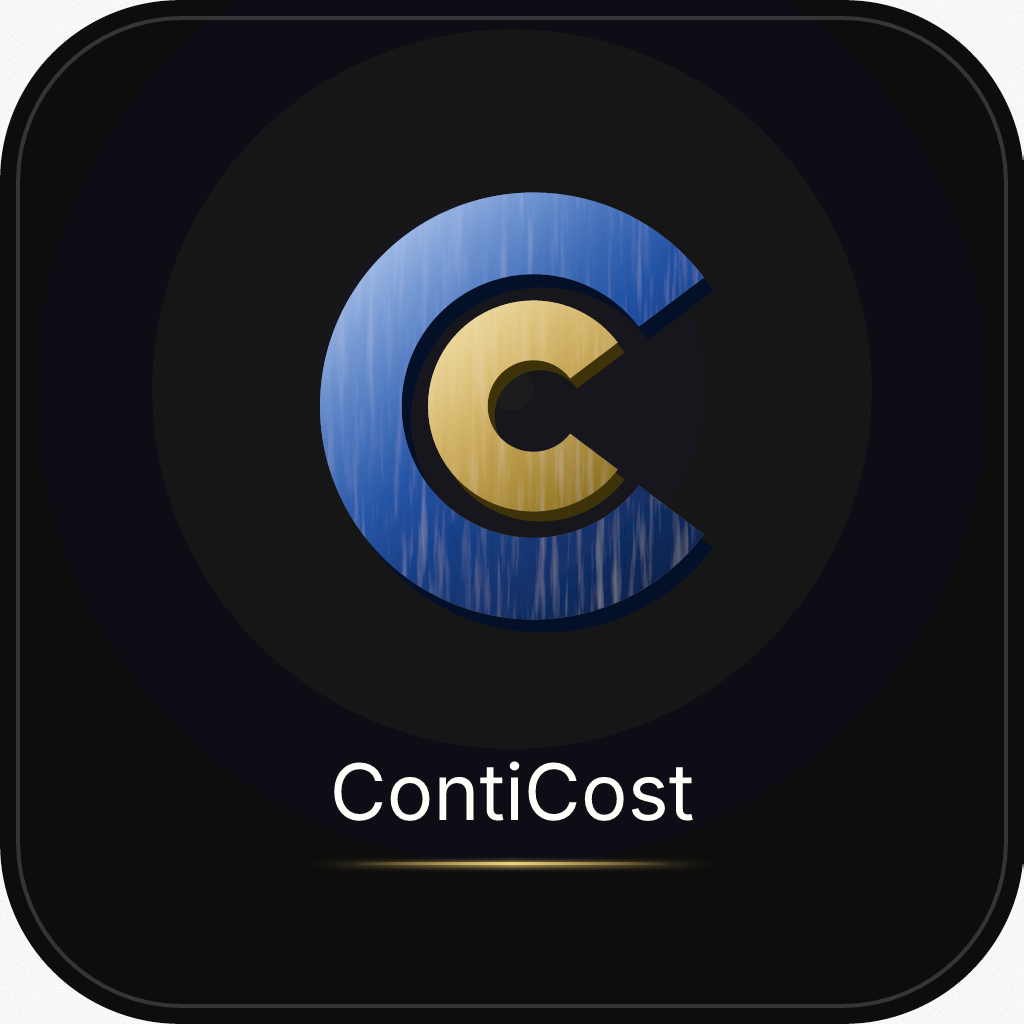
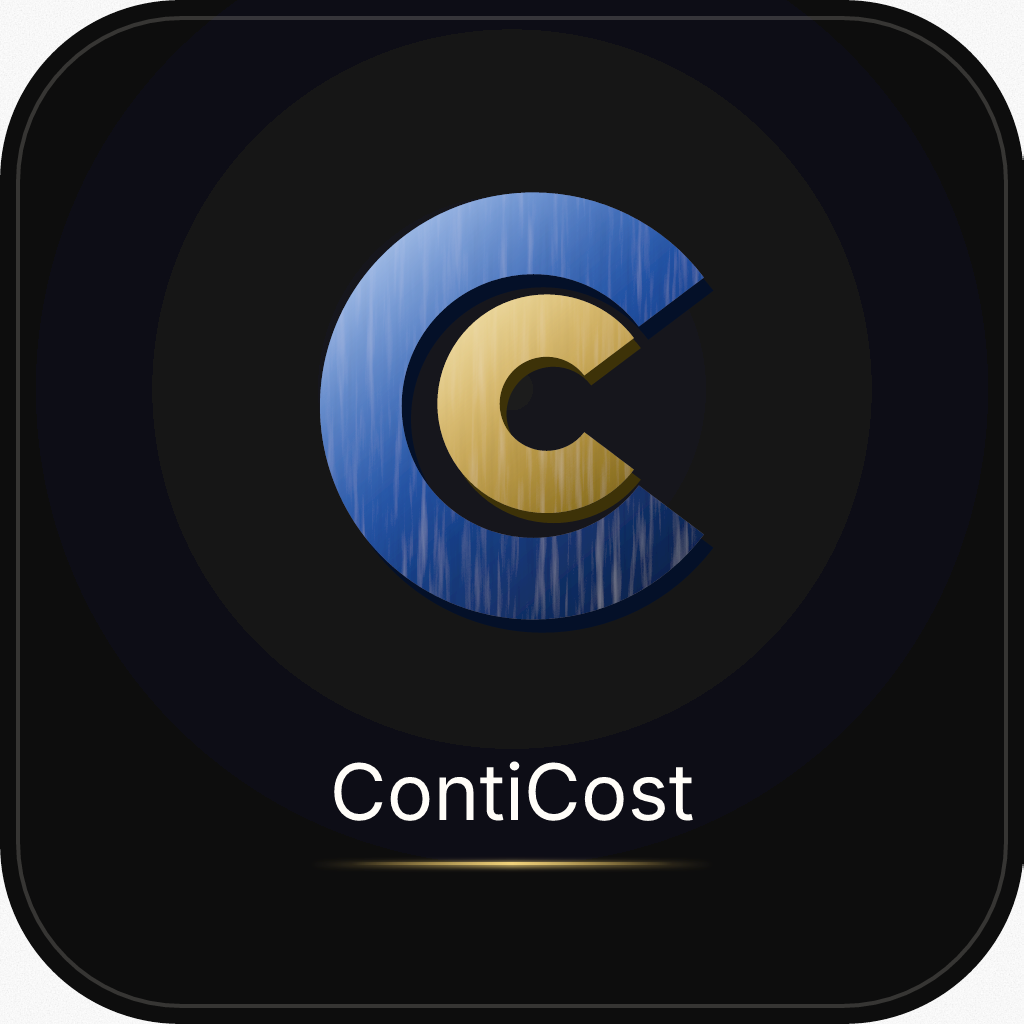
Optically nest the gold C toward the Conti opening
Shift the inner C slightly into the blue C’s interior so it
reads centered instead of sitting against the back wall, and
regenerate every brand PNG from that geometry.

diff --git a/lib/brand/cc-mark-geometry.test.ts b/lib/brand/cc-mark-geometry.test.ts
@@ -15,11 +15,13 @@ import {
 } from "./cc-mark-geometry.ts";
 
 describe("cc-mark geometry", () => {
-  test("gold sits concentric inside the blue C with a uniform gap", () => {
-    const { center, gap, blueStroke, goldStroke } = ccMetrics();
+  test("gold sits inside the blue C with breathing room and a heavier blue stroke", () => {
+    const { center, goldCenter: gold, gap, blueStroke, goldStroke } = ccMetrics();
     assert.equal(center.cx, ccCenter().cx);
     assert.equal(center.cy, CC_VIEWBOX / 2);
-    assert.ok(gap > 3.5 && gap < 6, `gap ${gap} should leave even breathing room`);
+    assert.ok(gold.cx > center.cx, "gold should sit slightly toward the opening");
+    assert.ok(gold.cy < center.cy, "gold should sit slightly above the drop shadow");
+    assert.ok(gap > 3 && gap < 6, `gap ${gap} should leave even breathing room`);
     assert.ok(blueStroke > goldStroke, "blue stroke should be heavier than gold");
     assert.ok(blueStroke / goldStroke > 1.2 && blueStroke / goldStroke < 1.6);
     assert.equal(BLUE_INNER - GOLD_OUTER, gap);
@@ -43,9 +45,11 @@ describe("cc-mark geometry", () => {
     const midY = (blueBBox.top + blueBBox.bottom) / 2;
     assert.ok(Math.abs(midX - CC_VIEWBOX / 2) < 0.05);
     assert.ok(Math.abs(midY - CC_VIEWBOX / 2) < 0.05);
-    assert.ok(Math.abs(goldBBox.top - blueBBox.top - (blueBBox.bottom - goldBBox.bottom)) < 1e-9);
-    assert.ok(Math.abs(goldBBox.left - blueBBox.left - (BLUE_OUTER - GOLD_OUTER)) < 1e-9);
-    assert.ok(Math.abs(center.cy - goldBBox.top - (goldBBox.bottom - center.cy)) < 1e-9);
+    const leftInnerGap = goldBBox.left - (center.cx - BLUE_INNER);
+    const topInnerGap = goldBBox.top - (center.cy - BLUE_INNER);
+    assert.ok(leftInnerGap > 2.5 && leftInnerGap < 8, `left inner gap ${leftInnerGap}`);
+    assert.ok(topInnerGap > 2.5 && topInnerGap < 6, `top inner gap ${topInnerGap}`);
+    assert.ok(goldBBox.right < blueBBox.right);
   });
 
   test("path helper stays concentric when radii change", () => {

diff --git a/lib/brand/cc-mark-geometry.ts b/lib/brand/cc-mark-geometry.ts
@@ -6,8 +6,11 @@ export const CC_OPENING_DEG = 37;
 /** Outer radius of the blue C. Padding left for drop shadow. */
 export const BLUE_OUTER = 34;
 export const BLUE_INNER = 21;
-export const GOLD_OUTER = 16.8;
-export const GOLD_INNER = 7.3;
+export const GOLD_OUTER = 17.4;
+export const GOLD_INNER = 7.5;
+/** Nudge gold toward the opening so it reads centered in the C’s interior. */
+export const GOLD_OFFSET_X = 2.1;
+export const GOLD_OFFSET_Y = -0.35;
 
 export type CcCenter = { cx: number; cy: number };
 
@@ -55,14 +58,21 @@ export function ccPath(
   return `M${topOuterX} ${topOuterY} A${ro} ${ro} 0 1 0 ${botOuterX} ${botOuterY} L${botInnerX} ${botInnerY} A${ri} ${ri} 0 1 1 ${topInnerX} ${topInnerY} Z`;
 }
 
+export function goldCenter(viewBox = CC_VIEWBOX): CcCenter {
+  const blue = ccCenter(viewBox);
+  return { cx: blue.cx + GOLD_OFFSET_X, cy: blue.cy + GOLD_OFFSET_Y };
+}
+
 export function ccMetrics() {
   const center = ccCenter();
+  const gold = goldCenter();
   const a = openingRadians();
   const blueStroke = BLUE_OUTER - BLUE_INNER;
   const goldStroke = GOLD_OUTER - GOLD_INNER;
   const gap = BLUE_INNER - GOLD_OUTER;
   return {
     center,
+    goldCenter: gold,
     blueStroke,
     goldStroke,
     gap,
@@ -74,13 +84,13 @@ export function ccMetrics() {
       bottom: center.cy + BLUE_OUTER,
     },
     goldBBox: {
-      left: center.cx - GOLD_OUTER,
-      right: center.cx + GOLD_OUTER * Math.cos(a),
-      top: center.cy - GOLD_OUTER,
-      bottom: center.cy + GOLD_OUTER,
+      left: gold.cx - GOLD_OUTER,
+      right: gold.cx + GOLD_OUTER * Math.cos(a),
+      top: gold.cy - GOLD_OUTER,
+      bottom: gold.cy + GOLD_OUTER,
     },
   };
 }
 
 export const bluePath = () => ccPath(BLUE_OUTER, BLUE_INNER);
-export const goldPath = () => ccPath(GOLD_OUTER, GOLD_INNER);
+export const goldPath = () => ccPath(GOLD_OUTER, GOLD_INNER, goldCenter());
